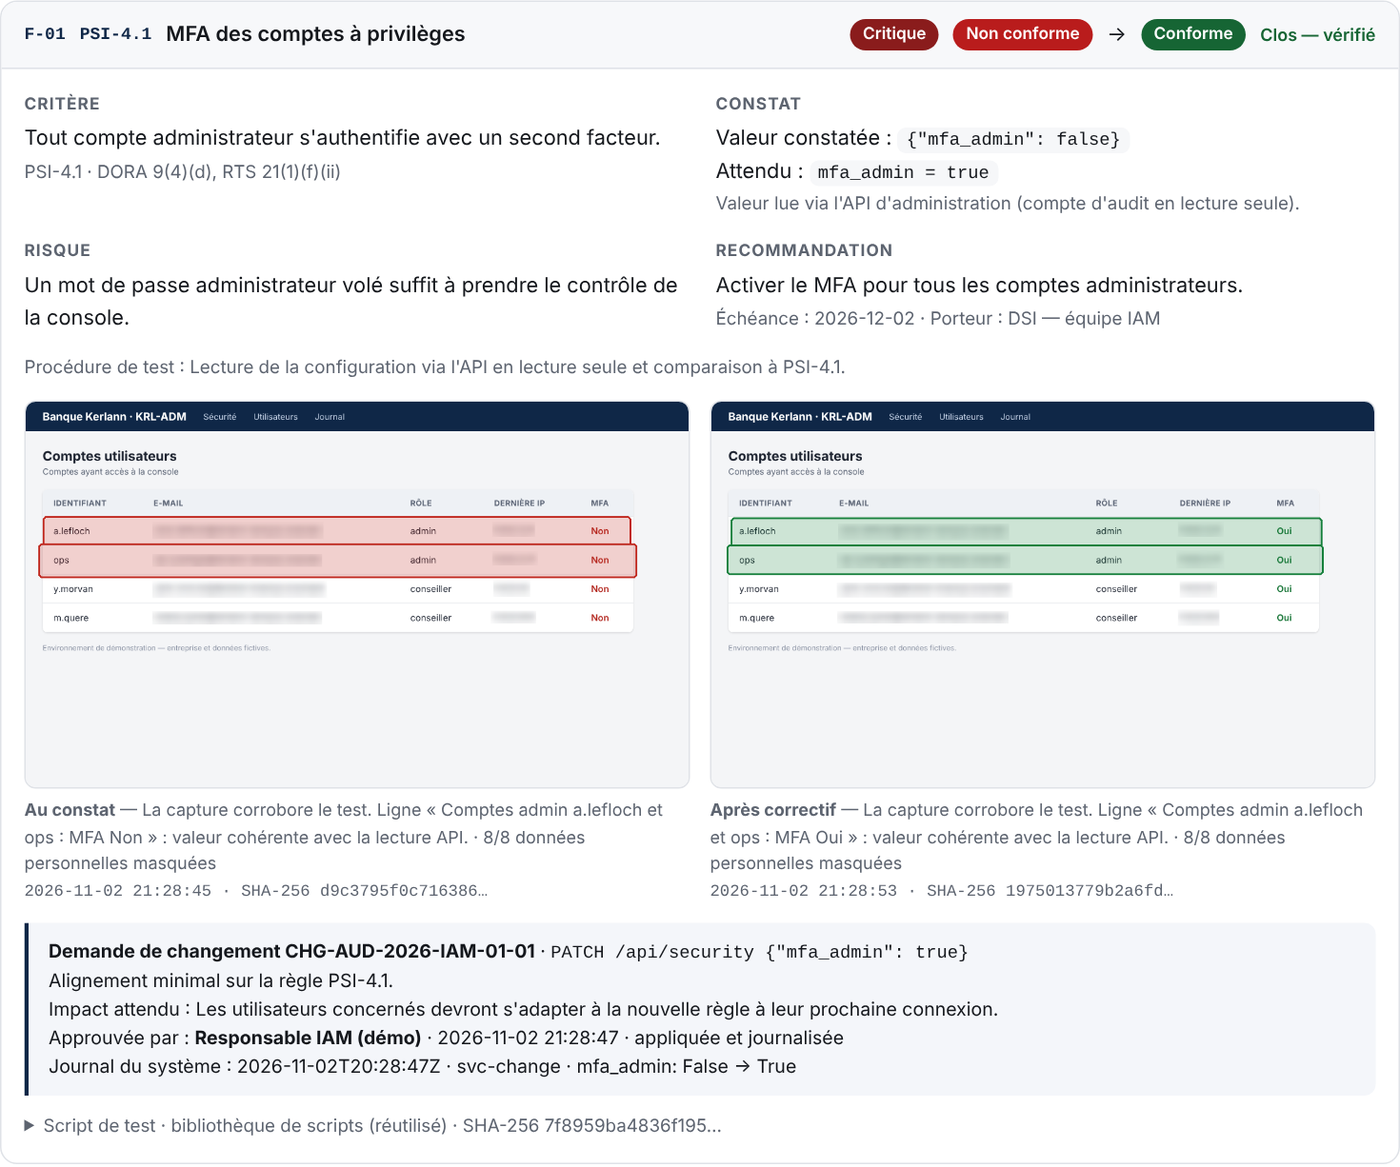
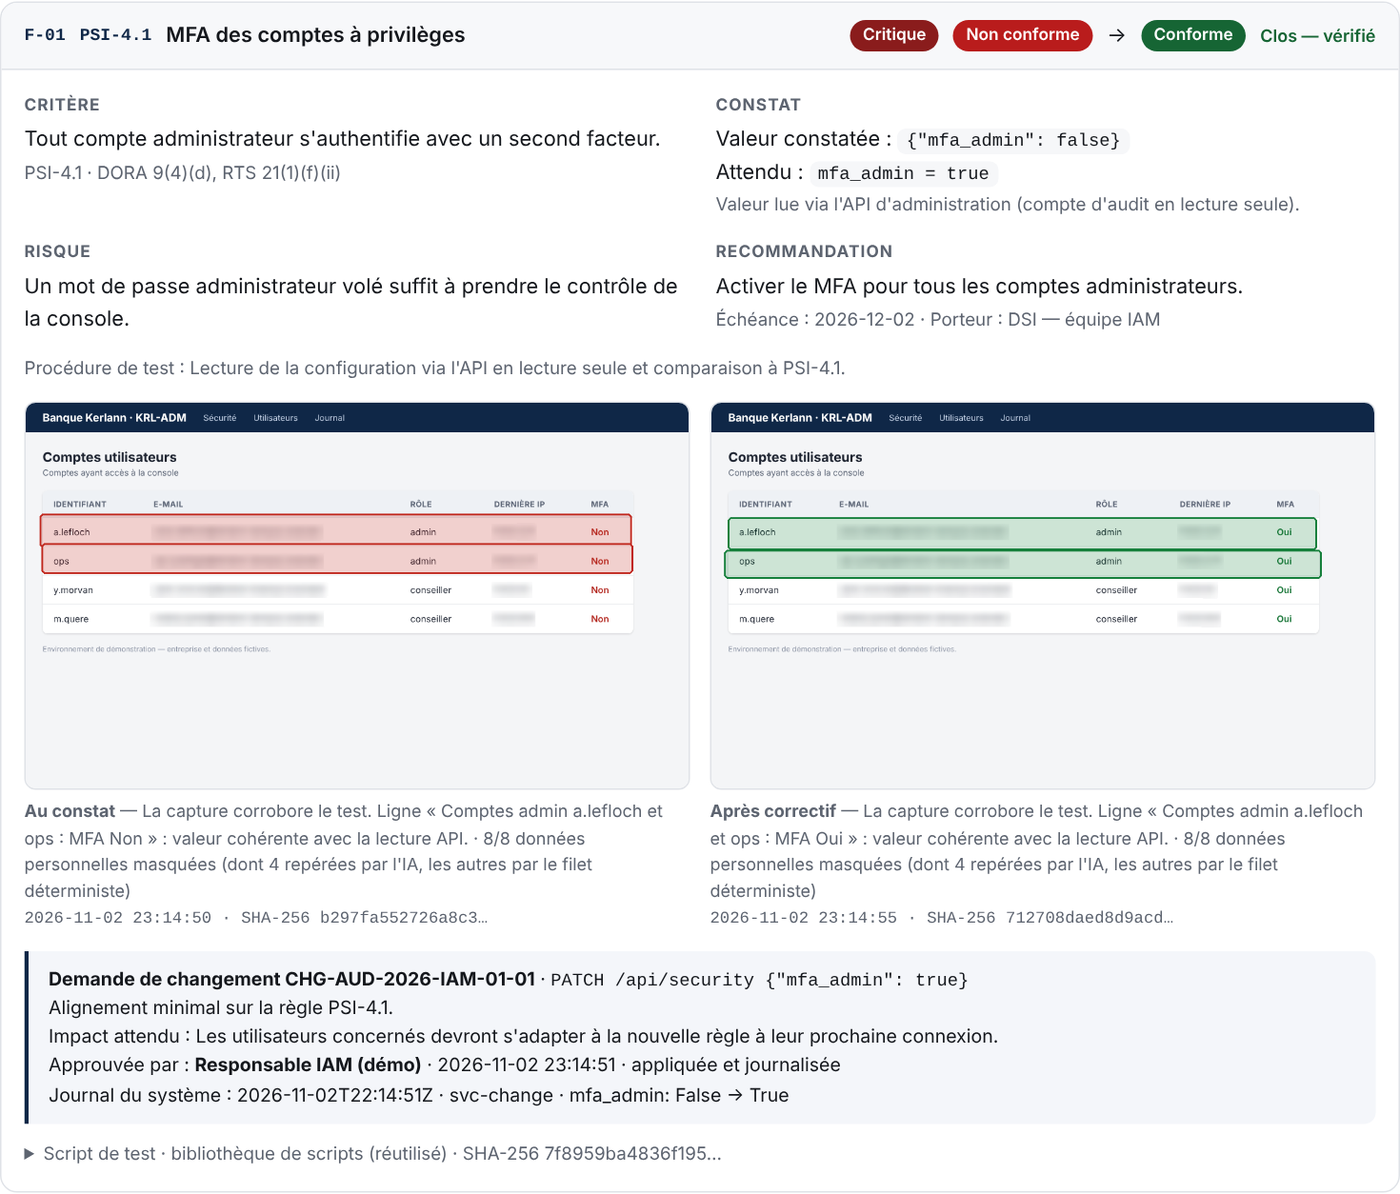
Marquage TLP 2.0 (FIRST) ; retrait des informations personnelles
- classification remplacée par le marquage public TLP:AMBER+STRICT
- README et script de démo : plus aucune mention du métier de l'auteur
- liens vers le rapport d'exemple français remplacés (rapport retiré)
- aperçus du README régénérés

Claude-Session: https://claude.ai/code/session_015LoByCh9azvTF4rYLdTMAK

diff --git a/attest/i18n.py b/attest/i18n.py
@@ -69,7 +69,7 @@ L = {
             "Correctifs : route et paramètres en liste blanche, approbation humaine, compte de changement distinct.",
             "Séparation des tâches : l'approbateur ne peut pas être l'auditeur.",
         ],
-        "classification": "Classification",
+        "classification": "Diffusion",
         "log.plan": "Programme de travail", "log.test": "Test", "log.evidence": "preuve scellée",
         "log.remediation": "Remédiation", "log.approve": "  Approuver en tant que « {a} » ? [o/N] ", "log.verify": "Contre-vérification", "log.report": "Rapport",
     },
@@ -140,7 +140,7 @@ L = {
             "Fixes: allow-listed route and parameters, human approval, separate change account.",
             "Segregation of duties: the approver cannot be the auditor.",
         ],
-        "classification": "Classification",
+        "classification": "Distribution",
         "log.plan": "Work programme", "log.test": "Test", "log.evidence": "evidence sealed",
         "log.remediation": "Remediation", "log.approve": "  Approve as \u201c{a}\u201d? [y/N] ", "log.verify": "Re-test", "log.report": "Report",
     },

diff --git a/examples/README.md b/examples/README.md
@@ -1,13 +1,13 @@
 # Exemples d'audits réels
 
-## `rapport-reel-fr/` — premier audit avec les vrais modèles (2 novembre 2026)
+## Premier audit avec les vrais modèles (2 novembre 2026)
 
 Meta Model API : Muse Spark 1.3 + SAM 3.1, 7 contrôles, programme de travail et scripts en cache,
-remédiation avec approbation interactive. Ouvrir `report.html` ou `report.pdf`.
+remédiation avec approbation interactive. Le rapport complet a été retiré du dépôt (il contenait un chemin de
+fichier local) ; il est remplacé par les rapports de l'évaluation sur 8 systèmes fictifs.
 
 - 6 non-conformités, 5 corrigées sur approbation puis revérifiées, 1 plan d'action (compte partagé « ops »).
 - Coût mesuré : 0,135 $ (18 appels Muse Spark, 22 663 jetons en entrée, 25 181 en sortie) ; 12 images SAM.
-- Intégrité : `python -m attest verify examples/rapport-reel-fr`.
 
 Ce que cet audit a révélé sur l'outil lui-même, et qui a été corrigé ensuite :
 1. Muse Spark a repéré les 8 données personnelles de la page des comptes, mais ses boîtes d'adresses IP
@@ -17,7 +17,6 @@ Ce que cet audit a révélé sur l'outil lui-même, et qui a été corrigé ensu
 2. Le champ « Constaté » du contrôle C7 affichait les e-mails en clair.
    → Pseudonymisation des e-mails, IP et IBAN dans le texte du rapport.
 
-Le rapport scellé est conservé tel quel : le modifier casserait sa vérification d'intégrité.
 
 ## Relecture des scripts et du programme de travail écrits par Muse Spark
 

diff --git a/README.md b/README.md
@@ -10,8 +10,6 @@ Attest is an AI agent that runs that audit the way a bank's second line of defen
 it **tests** the system read-only, **seals** the evidence, **masks** personal data, drafts **change requests**
 that a human owner approves, **re-tests** after the fix, and issues an audit report a CISO can sign.
 
-
-
 ![Executive summary of an Attest report](docs/img/report-summary.png)
 
 ## What happens in one run
@@ -63,8 +61,8 @@ python -m attest verify runs/<run-folder>              # integrity check
 ```
 
 The report (`runs/<run>/report.html`) refreshes live during the audit; `report.pdf` is written at the end.
-A real report produced with Muse Spark and SAM 3.1 is in [`examples/rapport-reel-fr`](examples/rapport-reel-fr/report.html)
-(cost: $0.135 for the whole engagement — see [docs/BUSINESS_CASE.md](docs/BUSINESS_CASE.md)).
+What the first real run with Muse Spark and SAM 3.1 measured and revealed ($0.135 for the whole engagement) is in
+[`examples/README.md`](examples/README.md) and [docs/BUSINESS_CASE.md](docs/BUSINESS_CASE.md).
 Useful flags: `--lang en`, `--approve-all --approver "IAM owner"` (pre-approved, demo only), `--fresh`
 (rewrite tests instead of replaying the library), `--replan` (redo the work programme).
 

diff --git a/docs/BUSINESS_CASE.md b/docs/BUSINESS_CASE.md
@@ -28,7 +28,7 @@ Muse Spark 1.3 **$1.25 / $4.25 per million input / output tokens** (source cited
 SAM 3.1 price was not found in public sources: fill it in from the Meta console.
 
 **Measured on the first real run** (2 November 2026, Meta Model API, 7 controls, cached work programme and scripts,
-remediation with interactive approval — see [`examples/rapport-reel-fr`](../examples/rapport-reel-fr/report.html)):
+remediation with interactive approval — see [`examples/README.md`](../examples/README.md)):
 
 | Item | Measured |
 |---|---|
